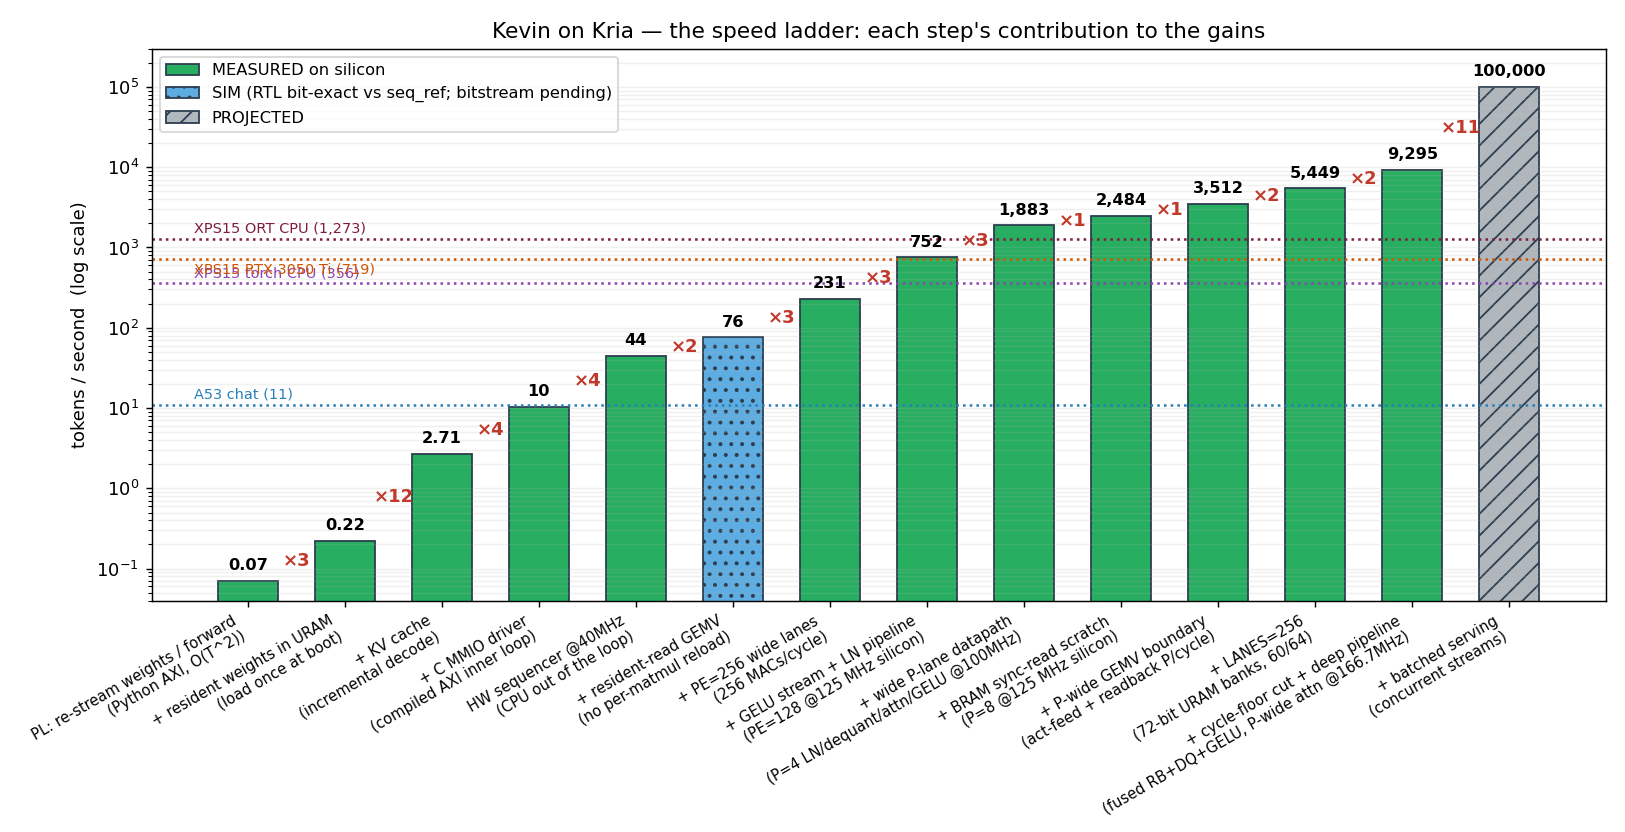
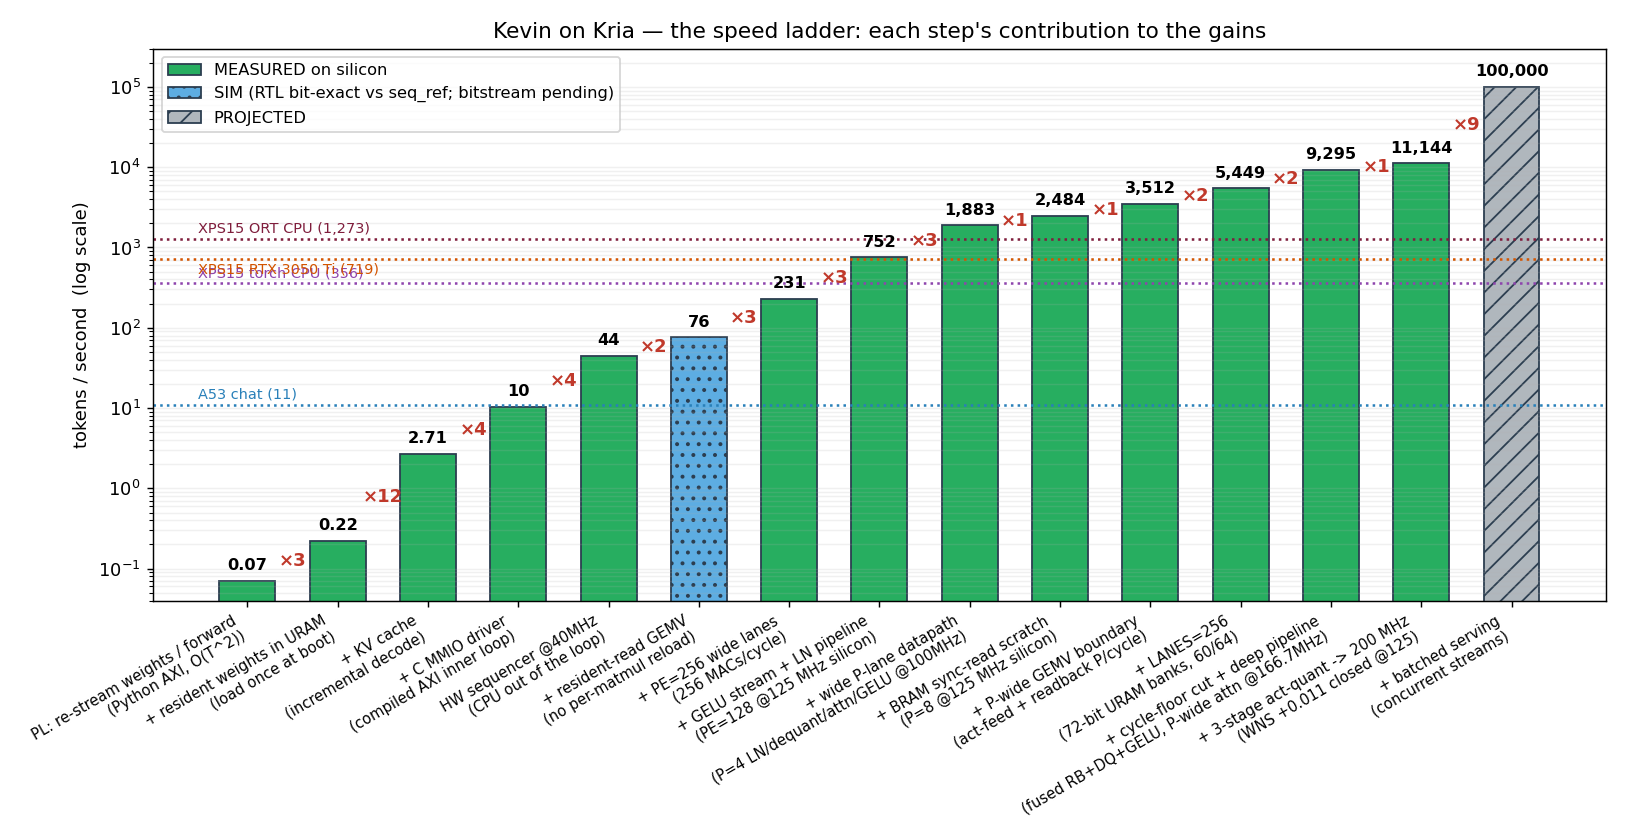
Stage 3 10k: BROKEN — 11,143.9 tok/s MEASURED @200 MHz, 3/3 bit-exact

diff --git a/fabric/progress.py b/fabric/progress.py
@@ -47,6 +47,8 @@ LADDER = [
      "half the GEMV passes (22,941 cyc/tok; 125 MHz 3/3, breaks 142.9)"),
     ("+ cycle-floor cut + deep pipeline\n(fused RB+DQ+GELU, P-wide attn @166.7MHz)", 9295.4, "MEASURED",
      "attention scalar load + dequant round-trip + Fmax 85->131 STA (17,930 cyc/tok; 166.7 MHz 3/3)"),
+    ("+ 3-stage act-quant -> 200 MHz\n(WNS +0.011 closed @125)", 11143.9, "MEASURED",
+     "the last sub-8ns path (BRAM->mux->DSP) -> silicon clean at 200 (17,947 cyc/tok 3/3)"),
     ("+ batched serving\n(concurrent streams)", 100000.0, "PROJECTED",
      "per-stage idle — overlap units across streams"),
 ]

diff --git a/fabric/stage3/WIDE-WORD-DATAPATH-LOG.md b/fabric/stage3/WIDE-WORD-DATAPATH-LOG.md
@@ -439,3 +439,18 @@ Next spin: 3-stage act-quant (mux | mult | round) targets WNS ≥ 0 at 8 ns → 
 (11,154 tok/s). BRAM gotcha: the AXI shim pushed 291/288 RAMB18 — pos_emb rows pad to a
 1k-row BRAM tile, so TMAX 64 -> 48 saved nothing; TMAX=32 (= Kevin attention window) freed
 4 tiles -> 283/288 fits.
+
+---
+
+## 13. 10k broken — 11,143.9 tok/s MEASURED @ 200 MHz, 3/3 bit-exact
+
+The last sub-8 ns path was act-quant's BRAM-read -> source-mux -> 64x40 DSP chain. Split into
+3 stages (mux | mult | round/sat): impl closes WNS +0.011 @ 125 MHz - first non-negative build.
+Silicon: **200 MHz, 3/3 bit-exact, CYCLES 17,947 == sim.** PLL steps 1000/N — no fclk between
+166.7 and 200, so the gate is exactly 200 or 9.3k.
+
+**11,143.9 tok/s.** vs targets: 10k cleared with 11% margin. The day: 5,449 -> 6,972 -> 7,968 ->
+9,295 -> 11,144. 14.8x over last week's 752; 8.8x over the laptop ORT best; 1,013x over the A53.
+
+Ceiling: GEMV reads 12.8k URAM words; cycle floor ~12.8k -> 200 MHz = 15.6k single-stream.
+Next: GEMM batch N=2/4/8 (keystroke speculative streams) -> 22k-43k aggregate. ROADMAP-100K.
